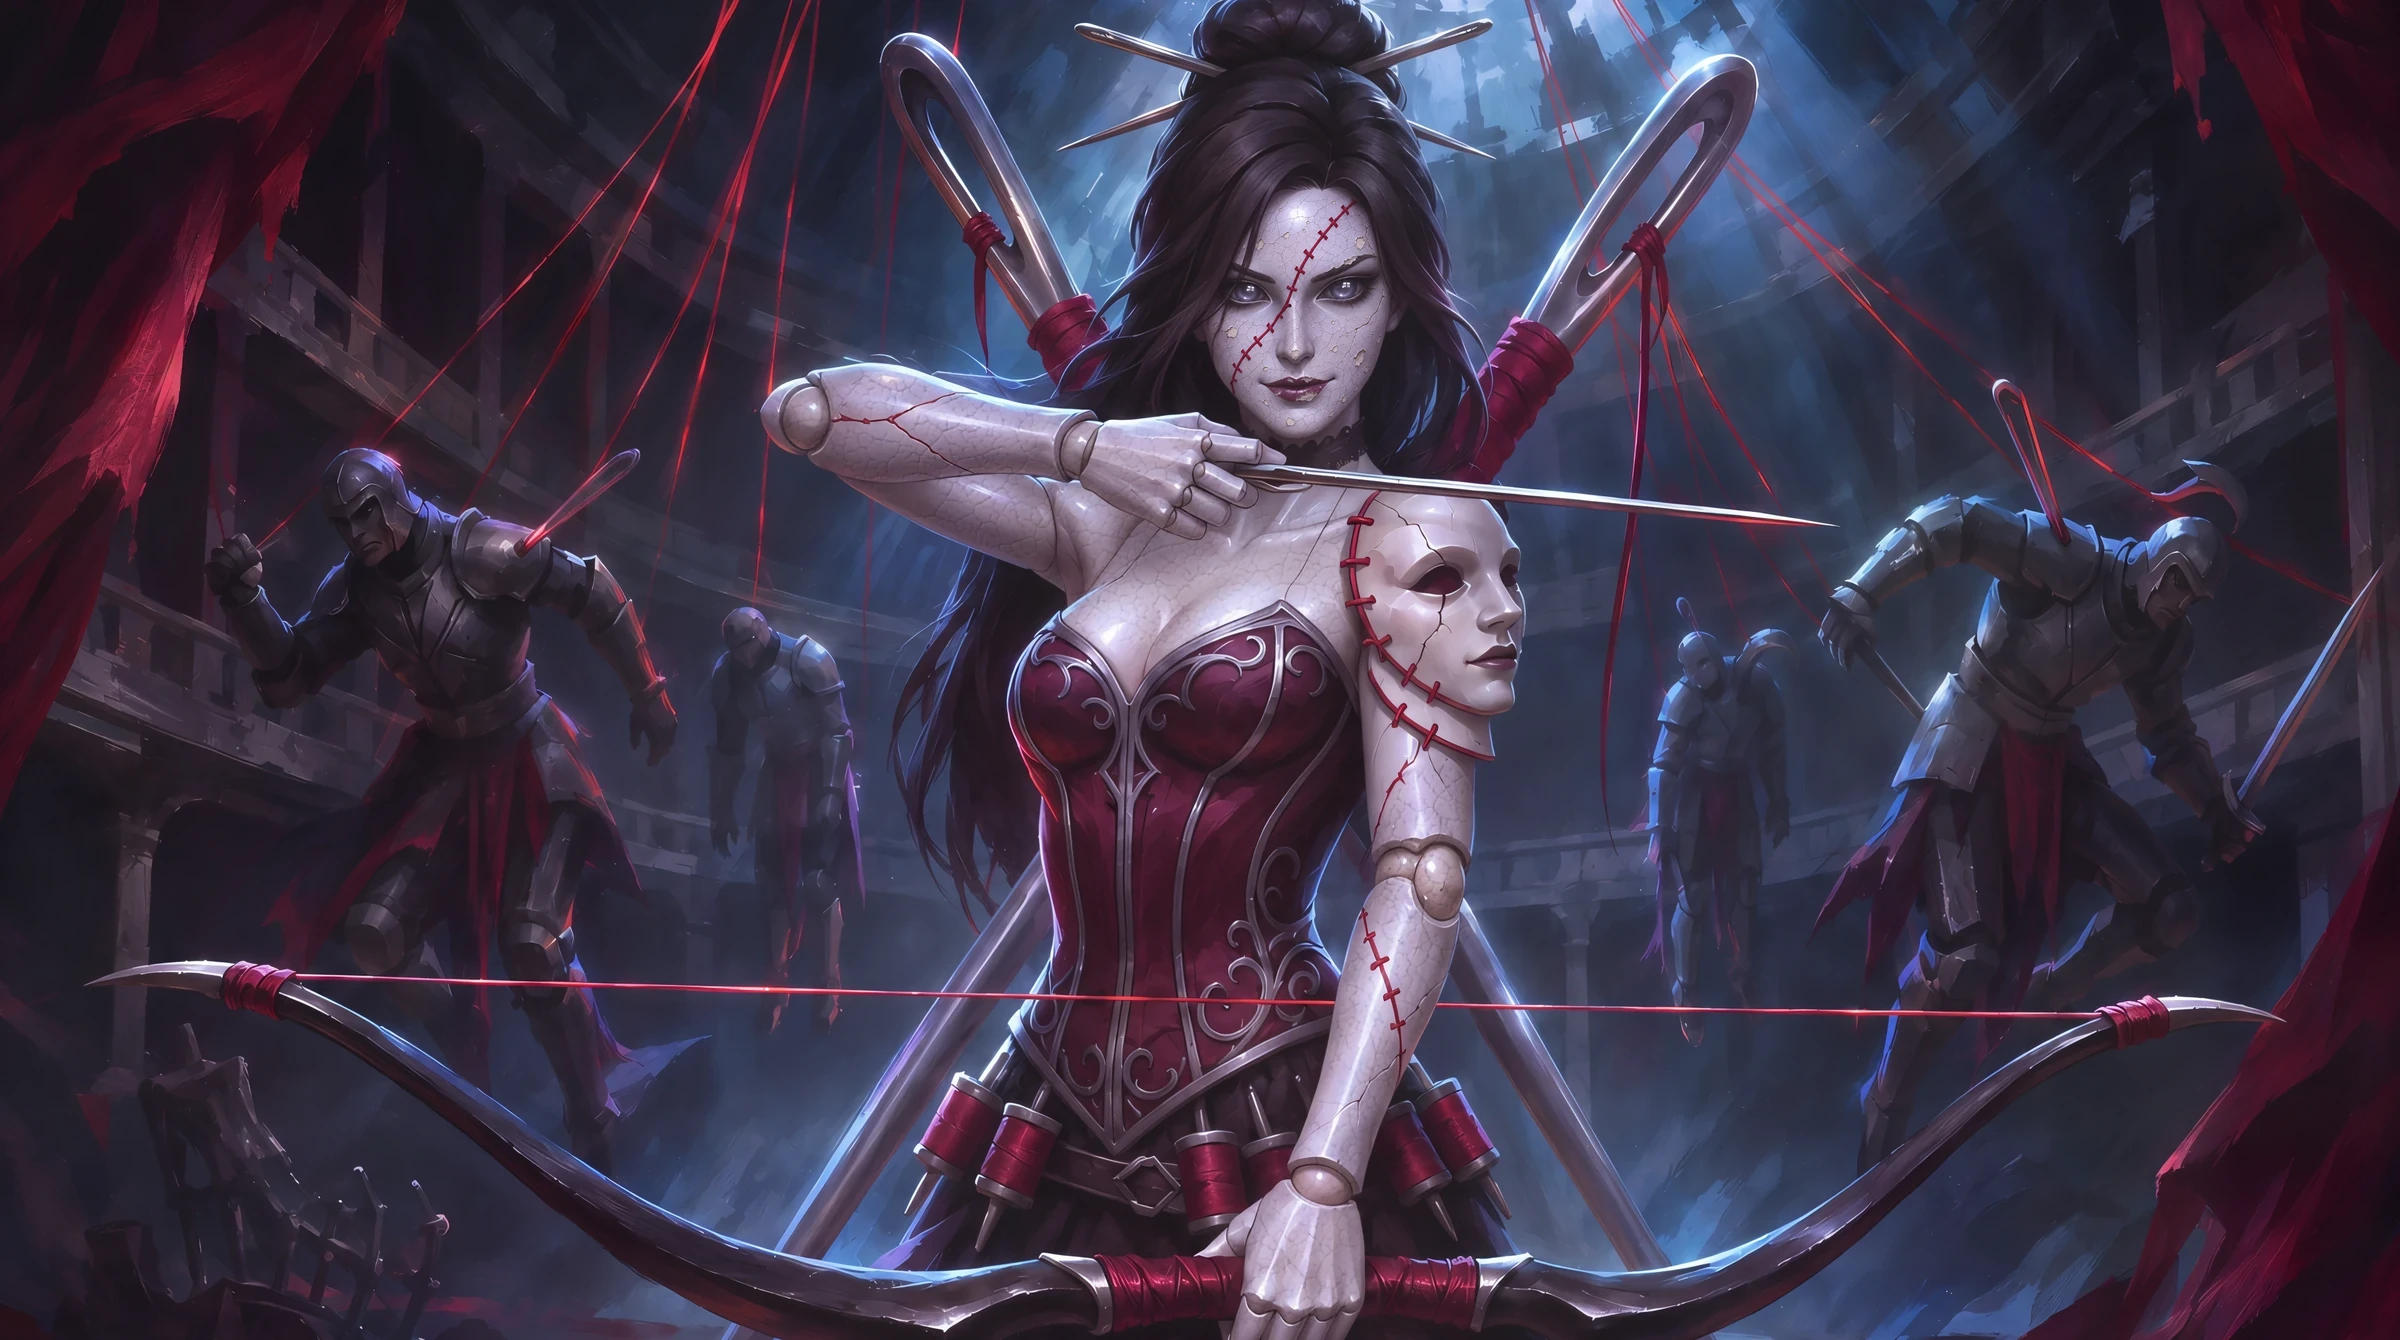
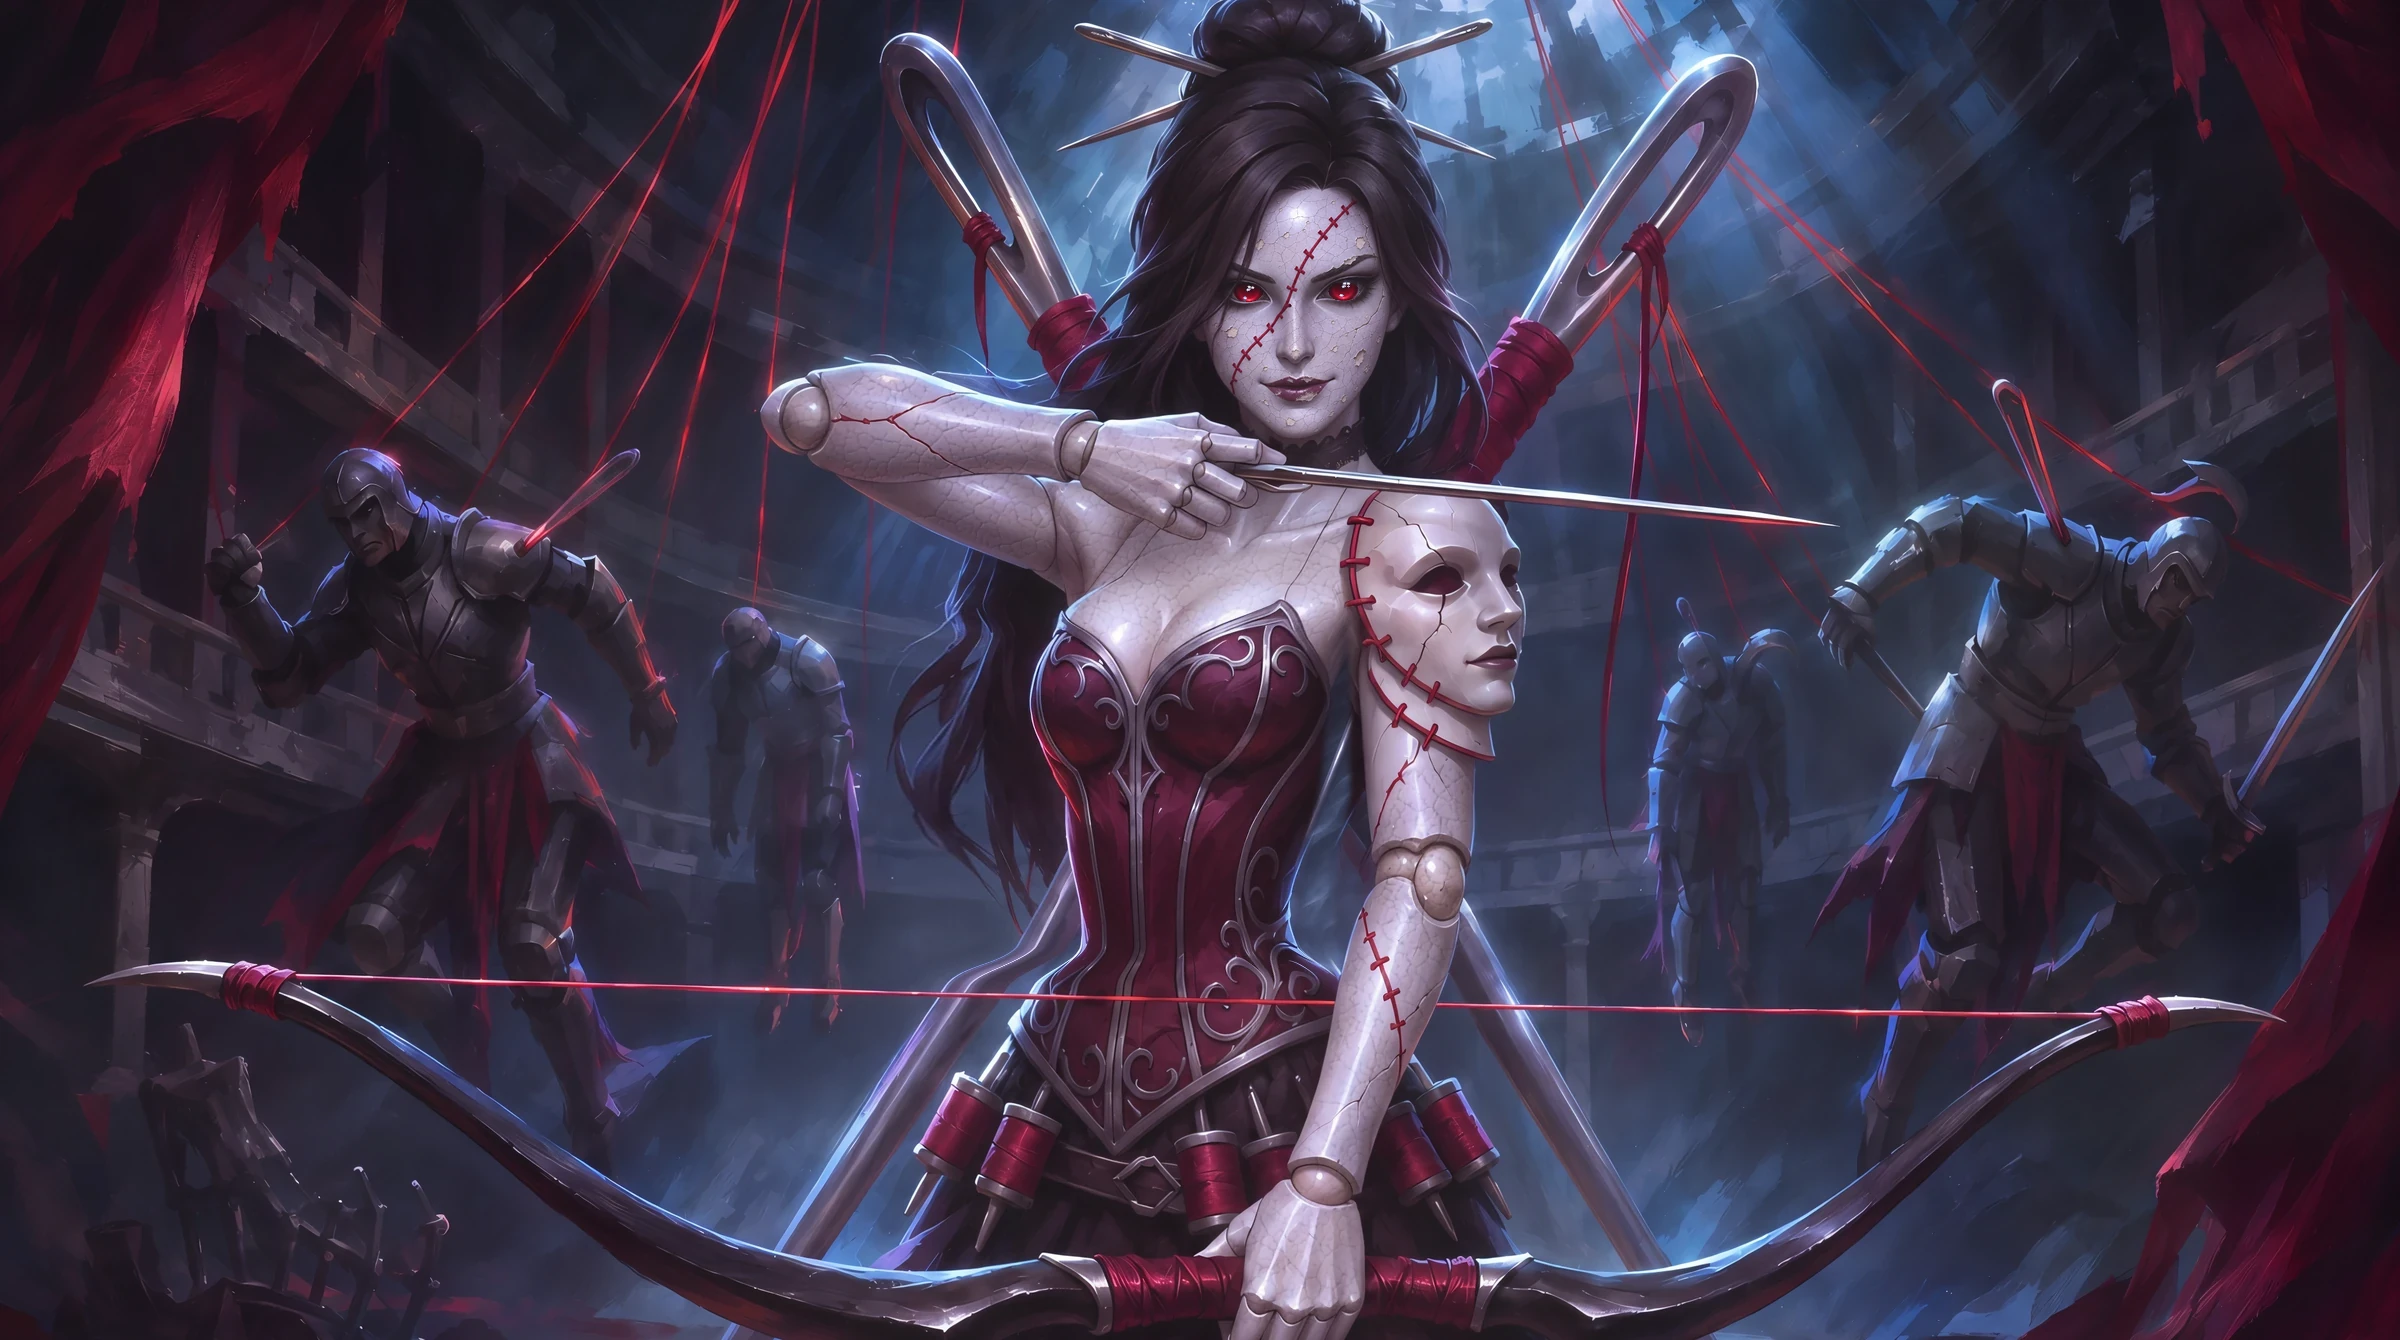
Lace: slender A on craquelure live (owner pick)
Claude-Session: https://claude.ai/code/session_01Fa986kEoxoUbsf7VZzVwQa

Changed region(s): [[0.375, 0.459, 0.5625, 0.7343]]

diff --git a/presskit.html b/presskit.html
@@ -101,19 +101,19 @@
         </div>
         <h2>Hunter art</h2>
         <div class="pk-grid">
-          <a href="assets/img/hunters/lisette-2400.webp?v=2026-11-15f15" target="_blank"><img src="assets/img/hunters/lisette-960.webp?v=2026-11-15f15" alt="Lace splash art" loading="lazy"><span class="pk-cap">Lace</span></a>
-          <a href="assets/img/hunters/breaker-2400.webp?v=2026-11-15f15" target="_blank"><img src="assets/img/hunters/breaker-960.webp?v=2026-11-15f15" alt="Albert splash art" loading="lazy"><span class="pk-cap">Albert</span></a>
-          <a href="assets/img/hunters/vex-2400.webp?v=2026-11-15f15" target="_blank"><img src="assets/img/hunters/vex-960.webp?v=2026-11-15f15" alt="Vex splash art" loading="lazy"><span class="pk-cap">Vex</span></a>
-          <a href="assets/img/hunters/kael-2400.webp?v=2026-11-15f15" target="_blank"><img src="assets/img/hunters/kael-960.webp?v=2026-11-15f15" alt="Kael splash art" loading="lazy"><span class="pk-cap">Kael</span></a>
-          <a href="assets/img/hunters/claire-2400.webp?v=2026-11-15f15" target="_blank"><img src="assets/img/hunters/claire-960.webp?v=2026-11-15f15" alt="Neve splash art" loading="lazy"><span class="pk-cap">Neve</span></a>
-          <a href="assets/img/hunters/cinder-2400.webp?v=2026-11-15f15" target="_blank"><img src="assets/img/hunters/cinder-960.webp?v=2026-11-15f15" alt="Cinder splash art" loading="lazy"><span class="pk-cap">Cinder</span></a>
-          <a href="assets/img/hunters/tarek-2400.webp?v=2026-11-15f15" target="_blank"><img src="assets/img/hunters/tarek-960.webp?v=2026-11-15f15" alt="Tenzo splash art" loading="lazy"><span class="pk-cap">Tenzo</span></a>
-          <a href="assets/img/hunters/ryzz-2400.webp?v=2026-11-15f15" target="_blank"><img src="assets/img/hunters/ryzz-960.webp?v=2026-11-15f15" alt="Sparkle splash art" loading="lazy"><span class="pk-cap">Sparkle</span></a>
-          <a href="assets/img/hunters/grimble-2400.webp?v=2026-11-15f15" target="_blank"><img src="assets/img/hunters/grimble-960.webp?v=2026-11-15f15" alt="Grimble splash art" loading="lazy"><span class="pk-cap">Grimble</span></a>
-          <a href="assets/img/hunters/pip-2400.webp?v=2026-11-15f15" target="_blank"><img src="assets/img/hunters/pip-960.webp?v=2026-11-15f15" alt="Meeko splash art" loading="lazy"><span class="pk-cap">Meeko</span></a>
-          <a href="assets/img/hunters/sable-2400.webp?v=2026-11-15f15" target="_blank"><img src="assets/img/hunters/sable-960.webp?v=2026-11-15f15" alt="Sable splash art" loading="lazy"><span class="pk-cap">Sable</span></a>
-          <a href="assets/img/hunters/gill-2400.webp?v=2026-11-15f15" target="_blank"><img src="assets/img/hunters/gill-960.webp?v=2026-11-15f15" alt="Gill splash art" loading="lazy"><span class="pk-cap">Gill</span></a>
-          <a href="assets/img/hunters/motley-2400.webp?v=2026-11-15f15" target="_blank"><img src="assets/img/hunters/motley-960.webp?v=2026-11-15f15" alt="Motley splash art" loading="lazy"><span class="pk-cap">Motley</span></a>
+          <a href="assets/img/hunters/lisette-2400.webp?v=2026-11-15g25" target="_blank"><img src="assets/img/hunters/lisette-960.webp?v=2026-11-15g25" alt="Lace splash art" loading="lazy"><span class="pk-cap">Lace</span></a>
+          <a href="assets/img/hunters/breaker-2400.webp?v=2026-11-15g25" target="_blank"><img src="assets/img/hunters/breaker-960.webp?v=2026-11-15g25" alt="Albert splash art" loading="lazy"><span class="pk-cap">Albert</span></a>
+          <a href="assets/img/hunters/vex-2400.webp?v=2026-11-15g25" target="_blank"><img src="assets/img/hunters/vex-960.webp?v=2026-11-15g25" alt="Vex splash art" loading="lazy"><span class="pk-cap">Vex</span></a>
+          <a href="assets/img/hunters/kael-2400.webp?v=2026-11-15g25" target="_blank"><img src="assets/img/hunters/kael-960.webp?v=2026-11-15g25" alt="Kael splash art" loading="lazy"><span class="pk-cap">Kael</span></a>
+          <a href="assets/img/hunters/claire-2400.webp?v=2026-11-15g25" target="_blank"><img src="assets/img/hunters/claire-960.webp?v=2026-11-15g25" alt="Neve splash art" loading="lazy"><span class="pk-cap">Neve</span></a>
+          <a href="assets/img/hunters/cinder-2400.webp?v=2026-11-15g25" target="_blank"><img src="assets/img/hunters/cinder-960.webp?v=2026-11-15g25" alt="Cinder splash art" loading="lazy"><span class="pk-cap">Cinder</span></a>
+          <a href="assets/img/hunters/tarek-2400.webp?v=2026-11-15g25" target="_blank"><img src="assets/img/hunters/tarek-960.webp?v=2026-11-15g25" alt="Tenzo splash art" loading="lazy"><span class="pk-cap">Tenzo</span></a>
+          <a href="assets/img/hunters/ryzz-2400.webp?v=2026-11-15g25" target="_blank"><img src="assets/img/hunters/ryzz-960.webp?v=2026-11-15g25" alt="Sparkle splash art" loading="lazy"><span class="pk-cap">Sparkle</span></a>
+          <a href="assets/img/hunters/grimble-2400.webp?v=2026-11-15g25" target="_blank"><img src="assets/img/hunters/grimble-960.webp?v=2026-11-15g25" alt="Grimble splash art" loading="lazy"><span class="pk-cap">Grimble</span></a>
+          <a href="assets/img/hunters/pip-2400.webp?v=2026-11-15g25" target="_blank"><img src="assets/img/hunters/pip-960.webp?v=2026-11-15g25" alt="Meeko splash art" loading="lazy"><span class="pk-cap">Meeko</span></a>
+          <a href="assets/img/hunters/sable-2400.webp?v=2026-11-15g25" target="_blank"><img src="assets/img/hunters/sable-960.webp?v=2026-11-15g25" alt="Sable splash art" loading="lazy"><span class="pk-cap">Sable</span></a>
+          <a href="assets/img/hunters/gill-2400.webp?v=2026-11-15g25" target="_blank"><img src="assets/img/hunters/gill-960.webp?v=2026-11-15g25" alt="Gill splash art" loading="lazy"><span class="pk-cap">Gill</span></a>
+          <a href="assets/img/hunters/motley-2400.webp?v=2026-11-15g25" target="_blank"><img src="assets/img/hunters/motley-960.webp?v=2026-11-15g25" alt="Motley splash art" loading="lazy"><span class="pk-cap">Motley</span></a>
         </div>
         <h2>Boki art</h2>
         <div class="pk-grid pk-grid-boki" id="pk-boki" hidden></div>
@@ -151,7 +151,7 @@
   <div class="consent-b"><button class="btn btn-glass btn-sm" type="button" data-no>Decline</button><button class="btn btn-solid btn-sm" type="button" data-yes>Accept</button></div>
 </div>
 
-<script src="assets/site.js?v=304"></script>
+<script src="assets/site.js?v=305"></script>
 <script src="assets/signup.js?v=1"></script>
 <script src="/assets/topbar.js?v=6" defer></script>
 </body>

diff --git a/index.html b/index.html
@@ -170,7 +170,7 @@
       <button class="bk-arrow prev h-arrow" type="button" id="h-prev" aria-label="Previous Hunter"><svg viewBox="0 0 24 24" aria-hidden="true"><path d="M15 5l-7 7 7 7" fill="none" stroke="currentColor" stroke-width="2.6" stroke-linecap="round" stroke-linejoin="round"/></svg></button>
       <button class="bk-arrow next h-arrow" type="button" id="h-next" aria-label="Next Hunter"><svg viewBox="0 0 24 24" aria-hidden="true"><path d="M9 5l7 7-7 7" fill="none" stroke="currentColor" stroke-width="2.6" stroke-linecap="round" stroke-linejoin="round"/></svg></button>
       <div class="bk-count h-count"><b id="h-n">01</b> / <span>13</span></div>
-      <div class="shot"><img data-zoom id="h-art" src="assets/img/hunters/vex-1600.webp?v=2026-11-15f15" srcset="assets/img/hunters/vex-960.webp?v=2026-11-15f15 960w, assets/img/hunters/vex-1600.webp?v=2026-11-15f15 1600w, assets/img/hunters/vex-2400.webp?v=2026-11-15f15 2400w" sizes="(max-width: 720px) 260vw, (max-width: 1000px) and (orientation: portrait) 150vw, (max-width: 1280px) 100vw, 1240px" alt="Vex, the Hired Gun" loading="lazy"><button class="h-expand" type="button" id="h-expand" aria-label="View full art"><svg viewBox="0 0 24 24" fill="none" stroke="currentColor" stroke-width="2.2" stroke-linecap="round" stroke-linejoin="round" aria-hidden="true"><path d="M14 4h6v6M10 20H4v-6M20 4l-6.5 6.5M4 20l6.5-6.5"/></svg></button></div>
+      <div class="shot"><img data-zoom id="h-art" src="assets/img/hunters/vex-1600.webp?v=2026-11-15g25" srcset="assets/img/hunters/vex-960.webp?v=2026-11-15g25 960w, assets/img/hunters/vex-1600.webp?v=2026-11-15g25 1600w, assets/img/hunters/vex-2400.webp?v=2026-11-15g25 2400w" sizes="(max-width: 720px) 260vw, (max-width: 1000px) and (orientation: portrait) 150vw, (max-width: 1280px) 100vw, 1240px" alt="Vex, the Hired Gun" loading="lazy"><button class="h-expand" type="button" id="h-expand" aria-label="View full art"><svg viewBox="0 0 24 24" fill="none" stroke="currentColor" stroke-width="2.2" stroke-linecap="round" stroke-linejoin="round" aria-hidden="true"><path d="M14 4h6v6M10 20H4v-6M20 4l-6.5 6.5M4 20l6.5-6.5"/></svg></button></div>
       <div class="info" aria-live="polite">
         <div class="role" id="h-role" data-role="Gunslinger">Gunslinger</div>
         <h3 id="h-name">Vex</h3>
@@ -289,7 +289,7 @@
   <symbol id="i-play" viewBox="0 0 24 24"><path d="M7 4.5v15a1 1 0 0 0 1.5.86l12.4-7.5a1 1 0 0 0 0-1.72L8.5 3.64A1 1 0 0 0 7 4.5Z"/></symbol>
 </svg>
 
-<script src="assets/site.js?v=304"></script>
+<script src="assets/site.js?v=305"></script>
 <script src="assets/signup.js?v=1"></script>
 <script src="/assets/topbar.js?v=6" defer></script>
 </body>

diff --git a/devlog.html b/devlog.html
@@ -62,7 +62,7 @@
       <article class="dl-post" id="hunter-kits">
         <time datetime="2026-11-09">November 9, 2026</time>
         <h2>Hunter kits are on the site</h2>
-        <a class="dl-img" href="index.html#hunters"><img src="assets/img/hunters/breaker-1600.webp?v=2026-11-15f15" width="1600" height="893" alt="Albert, the Barnacle Knight" loading="lazy"></a>
+        <a class="dl-img" href="index.html#hunters"><img src="assets/img/hunters/breaker-1600.webp?v=2026-11-15g25" width="1600" height="893" alt="Albert, the Barnacle Knight" loading="lazy"></a>
         <p>Tap Abilities on any Hunter to see their full kit: weapon, passive, dash, both abilities and their ultimate.</p>
         <p>The kits come straight from the game files, so they stay current as we tune each Hunter.</p>
       </article>
@@ -90,7 +90,7 @@
   <div class="consent-b"><button class="btn btn-glass btn-sm" type="button" data-no>Decline</button><button class="btn btn-solid btn-sm" type="button" data-yes>Accept</button></div>
 </div>
 
-<script src="assets/site.js?v=304"></script>
+<script src="assets/site.js?v=305"></script>
 <script src="assets/signup.js?v=1"></script>
 <script src="/assets/topbar.js?v=6" defer></script>
 </body>

diff --git a/assets/site.js b/assets/site.js
@@ -192,7 +192,7 @@ if (heroIn && !calm) {
 
 /* ---------- Hunters: pick a Mask ---------- */
 // [id, name, title, has an up-to-date in-game model, role (from the kit's role line in the game)]
-const ART_V = "2026-11-15f15"; // bump when a Hunter splash changes
+const ART_V = "2026-11-15g25"; // bump when a Hunter splash changes
 // order 11-15 owner (r3: Grimble before Cinder): Kael Lace Albert = kingsguard trio (Cinder is not kingsguard); Sable last so Gill splits the purples (Motley/Sable)
 const HUNTERS = [
   ["vex", "Vex", "The Hired Gun", true, "Gunslinger"],

diff --git a/privacy.html b/privacy.html
@@ -99,7 +99,7 @@
   <div class="consent-b"><button class="btn btn-glass btn-sm" type="button" data-no>Decline</button><button class="btn btn-solid btn-sm" type="button" data-yes>Accept</button></div>
 </div>
 
-<script src="assets/site.js?v=304"></script>
+<script src="assets/site.js?v=305"></script>
 <script src="assets/signup.js?v=1"></script>
 <script src="/assets/topbar.js?v=6" defer></script>
 </body>
